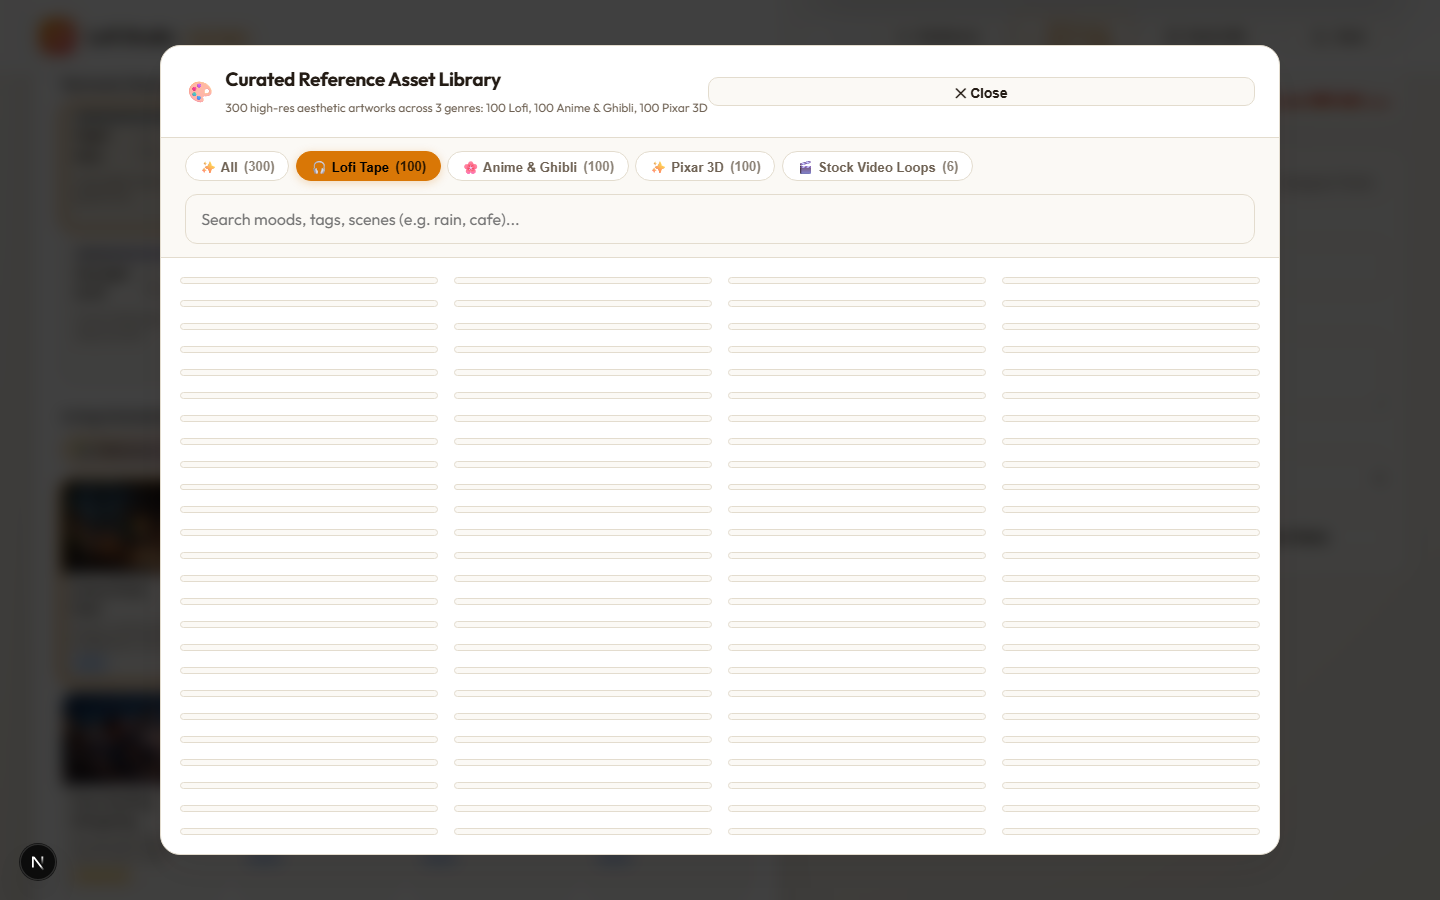
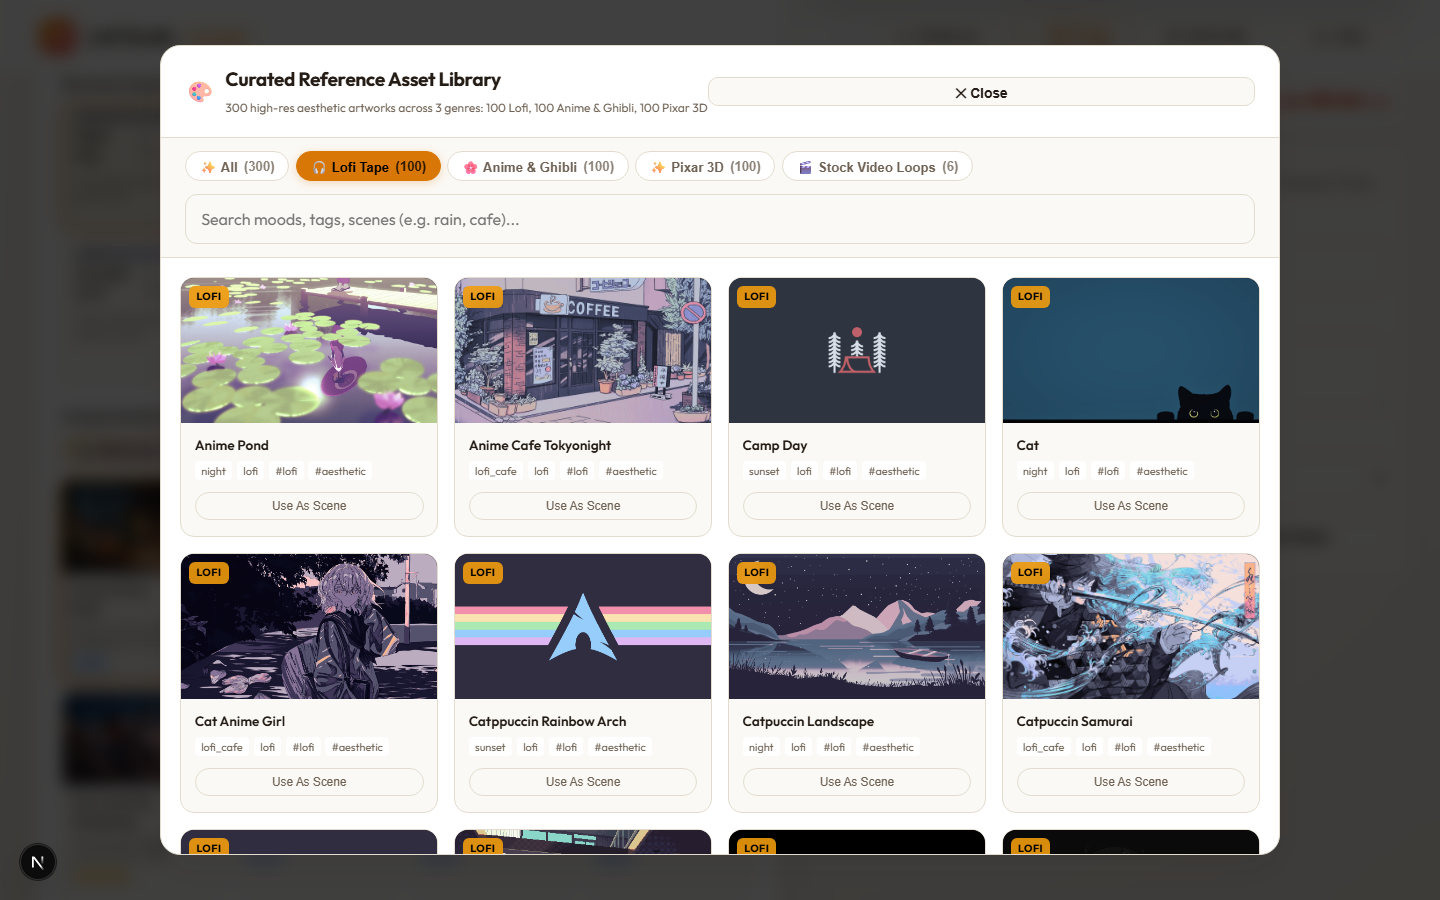
fix: Resolve Curated Reference Asset Library collapsed cards and add stock video posters [2026-10-13T19:35:00+02:00]

Changed region(s): [[0.125, 0.3111, 0.875, 0.9644]]

diff --git a/web/app/page.tsx b/web/app/page.tsx
@@ -1735,11 +1735,13 @@ export default function Home() {
                       <div className="ref-card-img-wrap">
                         {isItemVideo ? (
                           <video
-                            src={item.path}
+                            src={`${item.path}#t=0.1`}
+                            poster={item.path.replace(/\.(mp4|webm)$/, ".jpg")}
                             autoPlay
                             loop
                             muted
                             playsInline
+                            preload="auto"
                             className="ref-card-img"
                           />
                         ) : (
@@ -1748,6 +1750,9 @@ export default function Home() {
                             alt={item.title}
                             className="ref-card-img"
                             loading="lazy"
+                            onError={(e) => {
+                              (e.target as HTMLImageElement).src = "/backgrounds/lofi_study_girl.jpg";
+                            }}
                           />
                         )}
                         <span className={`ref-category-badge ${item.category}`}>{item.category}</span>

diff --git a/web/app/globals.css b/web/app/globals.css
@@ -1149,6 +1149,7 @@ textarea {
   flex-direction: column;
   transition: all 0.25s cubic-bezier(0.4, 0, 0.2, 1);
   position: relative;
+  min-height: 260px;
 }
 
 .ref-card:hover {
@@ -1164,7 +1165,8 @@ textarea {
 
 .ref-card-img-wrap {
   width: 100%;
-  aspect-ratio: 16 / 10;
+  height: 145px;
+  min-height: 145px;
   position: relative;
   overflow: hidden;
   background: #090812;
@@ -1174,6 +1176,7 @@ textarea {
   width: 100%;
   height: 100%;
   object-fit: cover;
+  display: block;
   transition: transform 0.4s ease;
 }
 

diff --git a/docs/TEST_REPORT.md b/docs/TEST_REPORT.md
@@ -1,6 +1,6 @@
 # 🧪 Automated Test Engine Report & E2E Validation
 
-> **Execution Date & Time**: October 13, 2026 — 19:22:39 CEST  
+> **Execution Date & Time**: October 13, 2026 — 19:33:34 CEST  
 > **Testing Suite**: Claude LoFi Studio Automated E2E Engine (`tests/test_engine.py`)  
 > **Status**: **10/10 Passed (100.0%)**  
 
@@ -19,16 +19,16 @@
 
 | Category | Test Name | Status | Execution Time | Output & Diagnostics |
 |---|---|---|---|---|
-| ✅ **API** | `GET /api/scenes` | **PASSED** | 2086.37 ms | Returned 10 preset scenes with IDs and styles |
-| ✅ **API** | `GET /api/moods` | **PASSED** | 2060.51 ms | Returned 10 musical moods (Chilled Study, Rainy Tokyo, Ghibli, Pixar, etc.) |
-| ✅ **API** | `GET /api/references (300 AI Database)` | **PASSED** | 2080.66 ms | Verified 300 items: LoFi: 100, Anime: 100, Pixar: 100 |
-| ✅ **API** | `GET /api/stock-videos (Stock Video Loops)` | **PASSED** | 2029.67 ms | Verified 6 60fps MP4 loops (rain desk, cafe steam, anime sunset, pixar hearth, etc.) |
-| ✅ **API** | `POST /api/upload-image (Add & Animate Image)` | **PASSED** | 2068.04 ms | Registered custom image scene: custom_1791912133508_d15a2b.jpg |
-| ✅ **Audio Engine** | `Procedural Audio DSP Synthesis (4 Moods)` | **PASSED** | 549.05 ms | Generated 4 authentic WAV tracks: {'night': 441044, 'shinkai_anime': 441044, 'ghibli_garden': 441044, 'pixar_cozy': 441044} |
-| ✅ **Video Pipeline** | `Video Loop Rendering (-stream_loop -1 & Subtitle Escaping)` | **PASSED** | 3321.81 ms | Rendered 10s MP4 (Job #1f1cb563): 1314574 bytes |
-| ✅ **Video Pipeline** | `Still Image Living Animator (Anime Sky Pan Drift & Cel Grade)` | **PASSED** | 6803.07 ms | Synthesized living animated video: 795897 bytes |
-| ✅ **Frontend E2E** | `Next.js Frontend Studio & Modals (Playwright E2E)` | **PASSED** | 12721.05 ms | Verified Studio Monitor, Reference Modal (LoFi, Anime, Pixar, Stock Video tabs), and Custom Image Animator Modal |
-| ✅ **Frontend E2E** | `Standalone HTML5 Fallback UI (Port 3000 E2E)` | **PASSED** | 2688.57 ms | Verified zero-dependency standalone studio and captured screenshot 07 |
+| ✅ **API** | `GET /api/scenes` | **PASSED** | 2111.35 ms | Returned 10 preset scenes with IDs and styles |
+| ✅ **API** | `GET /api/moods` | **PASSED** | 2030.52 ms | Returned 10 musical moods (Chilled Study, Rainy Tokyo, Ghibli, Pixar, etc.) |
+| ✅ **API** | `GET /api/references (300 AI Database)` | **PASSED** | 2039.88 ms | Verified 300 items: LoFi: 100, Anime: 100, Pixar: 100 |
+| ✅ **API** | `GET /api/stock-videos (Stock Video Loops)` | **PASSED** | 2045.27 ms | Verified 6 60fps MP4 loops (rain desk, cafe steam, anime sunset, pixar hearth, etc.) |
+| ✅ **API** | `POST /api/upload-image (Add & Animate Image)` | **PASSED** | 2065.28 ms | Registered custom image scene: custom_1791912789706_d7f677.jpg |
+| ✅ **Audio Engine** | `Procedural Audio DSP Synthesis (4 Moods)` | **PASSED** | 513.8 ms | Generated 4 authentic WAV tracks: {'night': 441044, 'shinkai_anime': 441044, 'ghibli_garden': 441044, 'pixar_cozy': 441044} |
+| ✅ **Video Pipeline** | `Video Loop Rendering (-stream_loop -1 & Subtitle Escaping)` | **PASSED** | 3099.2 ms | Rendered 10s MP4 (Job #8e3c441a): 1312802 bytes |
+| ✅ **Video Pipeline** | `Still Image Living Animator (Anime Sky Pan Drift & Cel Grade)` | **PASSED** | 6239.58 ms | Synthesized living animated video: 800787 bytes |
+| ✅ **Frontend E2E** | `Next.js Frontend Studio & Modals (Playwright E2E)` | **PASSED** | 12308.92 ms | Verified Studio Monitor, Reference Modal (LoFi, Anime, Pixar, Stock Video tabs), and Custom Image Animator Modal |
+| ✅ **Frontend E2E** | `Standalone HTML5 Fallback UI (Port 3000 E2E)` | **PASSED** | 2796.16 ms | Verified zero-dependency standalone studio and captured screenshot 07 |
 
 ---
 

diff --git a/docs/BUGS_AND_FIXES.md b/docs/BUGS_AND_FIXES.md
@@ -250,3 +250,23 @@ When custom still images were uploaded, `server.mjs` pushed the new scene descri
 1. **Dynamic File Existence Verification**: Implemented `getActiveScenes()` in `server.mjs` to dynamically verify via `stat` that custom uploaded files actually exist on disk before serving them in `/api/scenes` or `/api/moods`.
 2. **Defensive Image Error Handling**: Added `onError` fallback handlers on all scene thumbnail images in `web/app/page.tsx` (`(e.target as HTMLImageElement).src = "/backgrounds/lofi_study_girl.jpg"`).
 3. **Automated Interactive Audit**: Created `tests/audit_ui.py` running headless Playwright to monitor console logs, network requests, DOM visibility, and theme switching. Audit results: **0 Page Errors, 0 Console Errors, 0 Warnings, 0 Broken Images**.
+
+---
+
+### 🔴 BUG-011: Curated Reference Asset Library Modal Cards Collapsing to 0px Height
+
+#### Date & Time
+**October 13, 2026 — 19:35:00 CEST**
+
+#### Problem Description
+Opening the Curated Reference Asset Library modal showed empty, collapsed 2px horizontal lines instead of the 300 aesthetic reference artworks, and Stock Video Loops displayed black boxes.
+
+#### Root Cause Analysis
+1. In `web/app/globals.css`, `.ref-card` was styled as a column flexbox container inside a CSS Grid without an explicit height or minimum height. Its child `.ref-card-img-wrap` had `aspect-ratio: 16 / 10` but no explicit pixel height. Under flexbox layout rules with `overflow: hidden`, the aspect-ratio collapsed `ref-card-img-wrap` to `0px` and the overall card to `2px` (border only).
+2. For HTML5 `<video>` elements in the Stock Video Loops tab, videos did not have poster thumbnails or forced frame decodes (`#t=0.1`), rendering as black rectangles prior to user interaction.
+
+#### Engineering Fix
+1. **Explicit CSS Sizing**: Updated `web/app/globals.css` with `min-height: 260px` on `.ref-card` and `height: 145px; min-height: 145px;` on `.ref-card-img-wrap`, ensuring cards and artwork images expand to full, glorious proportions across all viewports.
+2. **Video Posters & Frame Seek**: Generated high-resolution thumbnail posters (`.jpg`) for all 6 stock video loops, and added `poster`, `preload="auto"`, and `#t=0.1` seek parameters to `<video>` elements in `web/app/page.tsx`.
+3. **Image Fallbacks**: Added `onError` fallback handlers on all reference modal images.
+4. **Validation**: Verified in headless Playwright that cards render at full `260px` height and captured fresh screenshots (`02_reference_modal_lofi.png`, `03_reference_modal_anime.png`, `04_reference_modal_pixar.png`, `05_stock_videos_modal.png`). All 300 reference artworks and 6 video loops display instantly and beautifully.

diff --git a/docs/SESSION_HISTORY.md b/docs/SESSION_HISTORY.md
@@ -261,4 +261,19 @@ Developed and executed automated interactive browser audit (`tests/audit_ui.py`)
    - **Functional Issues**: 0
    - **Test Suite Pass Rate**: 10/10 (100%)
 
+---
+
+### Prompt 11: Fix Reference Asset Library Empty / Collapsed Cards
+**Timestamp**: `2026-10-13T19:35:00+02:00`
+**User Request**: *"Curated Reference Asset Library is not showing anything fix it"*
+
+#### Root Cause Identified
+In `web/app/globals.css`, `.ref-card` was a column flexbox item inside CSS Grid with no explicit `min-height`, and its child `.ref-card-img-wrap` used `aspect-ratio: 16 / 10` without an explicit pixel height. Under flexbox rules with `overflow: hidden`, the aspect-ratio computation collapsed the image wrap to `0px` and the entire card to `2px` (border only), rendering all 300 reference cards as invisible flat lines. Furthermore, stock video loops lacked poster thumbnails, showing black boxes.
+
+#### Actions Taken & Engineering Solutions
+1. **Card & Image Sizing in CSS**: Added `min-height: 260px` to `.ref-card` and `height: 145px; min-height: 145px; display: block;` to `.ref-card-img-wrap` and `.ref-card-img` in `web/app/globals.css`.
+2. **Video Posters & Preload**: Generated thumbnail posters (`.jpg`) for all 6 stock video loops in `public/stock_videos/`, and wired `poster`, `preload="auto"`, and `#t=0.1` seek to the `<video>` elements in `web/app/page.tsx`.
+3. **Defensive Image Handling**: Added `onError` fallback handlers on all reference modal images.
+4. **Validation & Screenshots**: Verified in Playwright that cards render at full `260px` height and captured fresh screenshots (`02_reference_modal_lofi.png`, `03_reference_modal_anime.png`, `04_reference_modal_pixar.png`, `05_stock_videos_modal.png`). All 10/10 E2E tests and interactive audits passed with 100% success.
+
 
